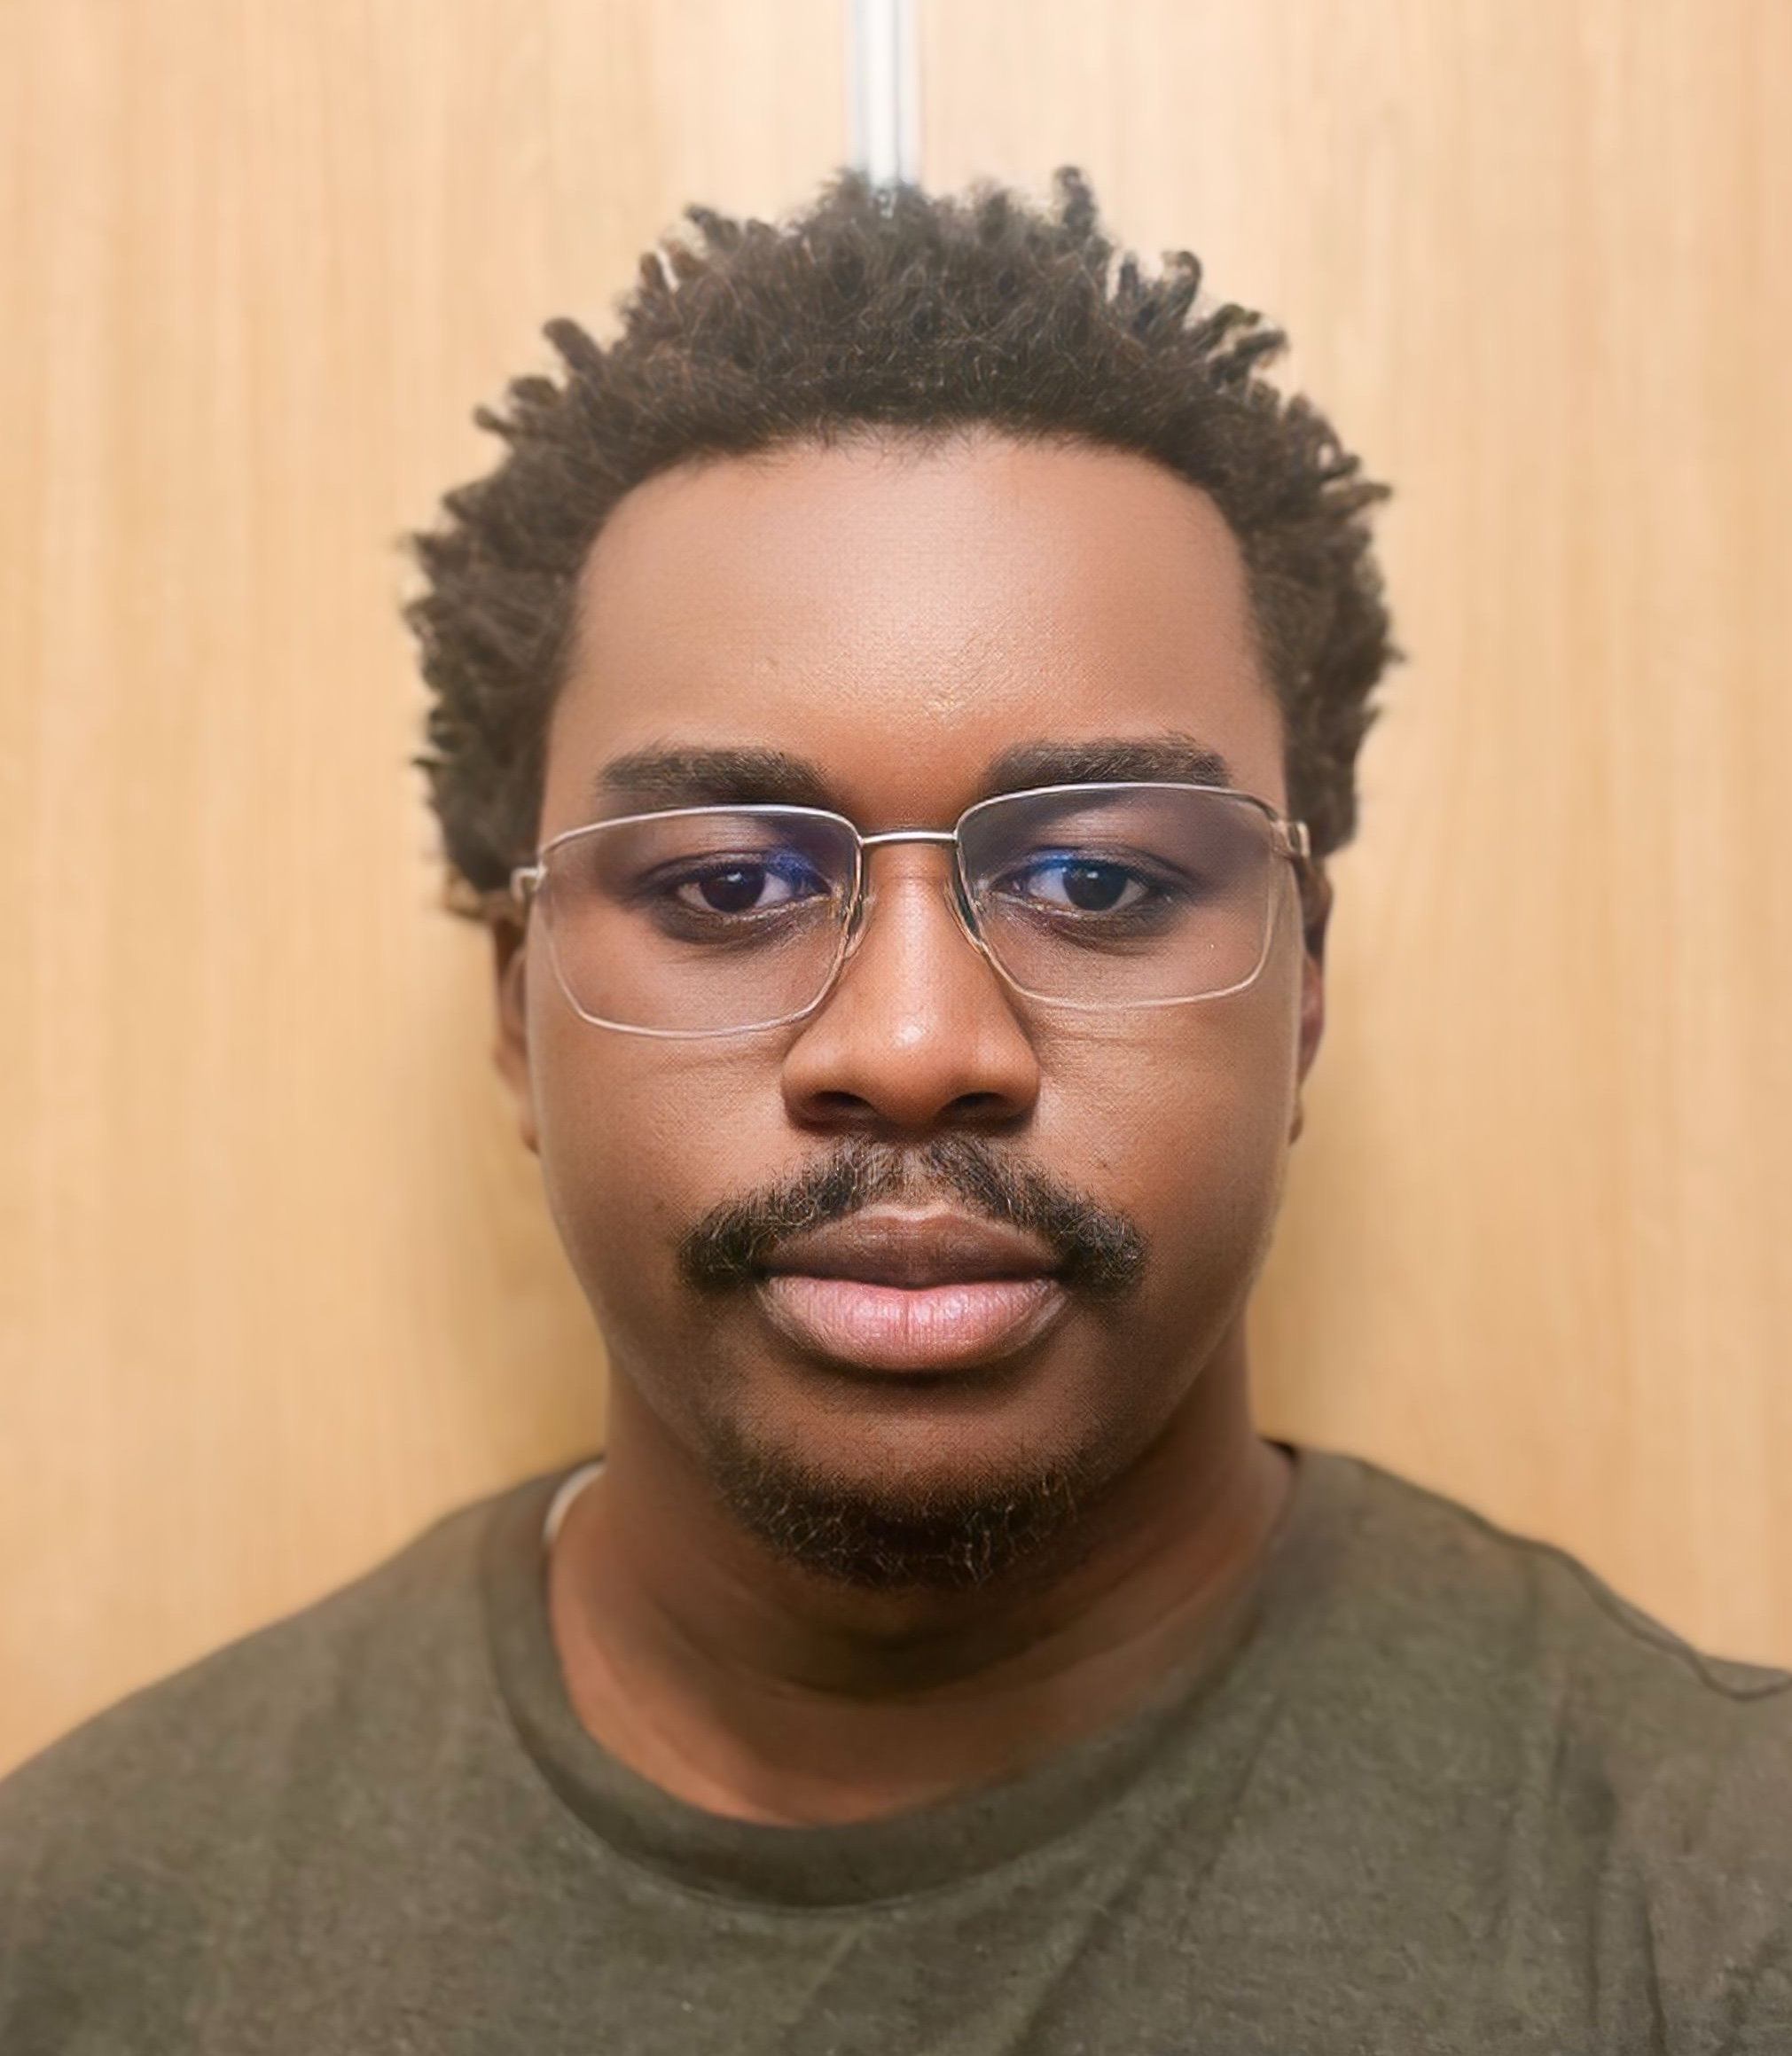
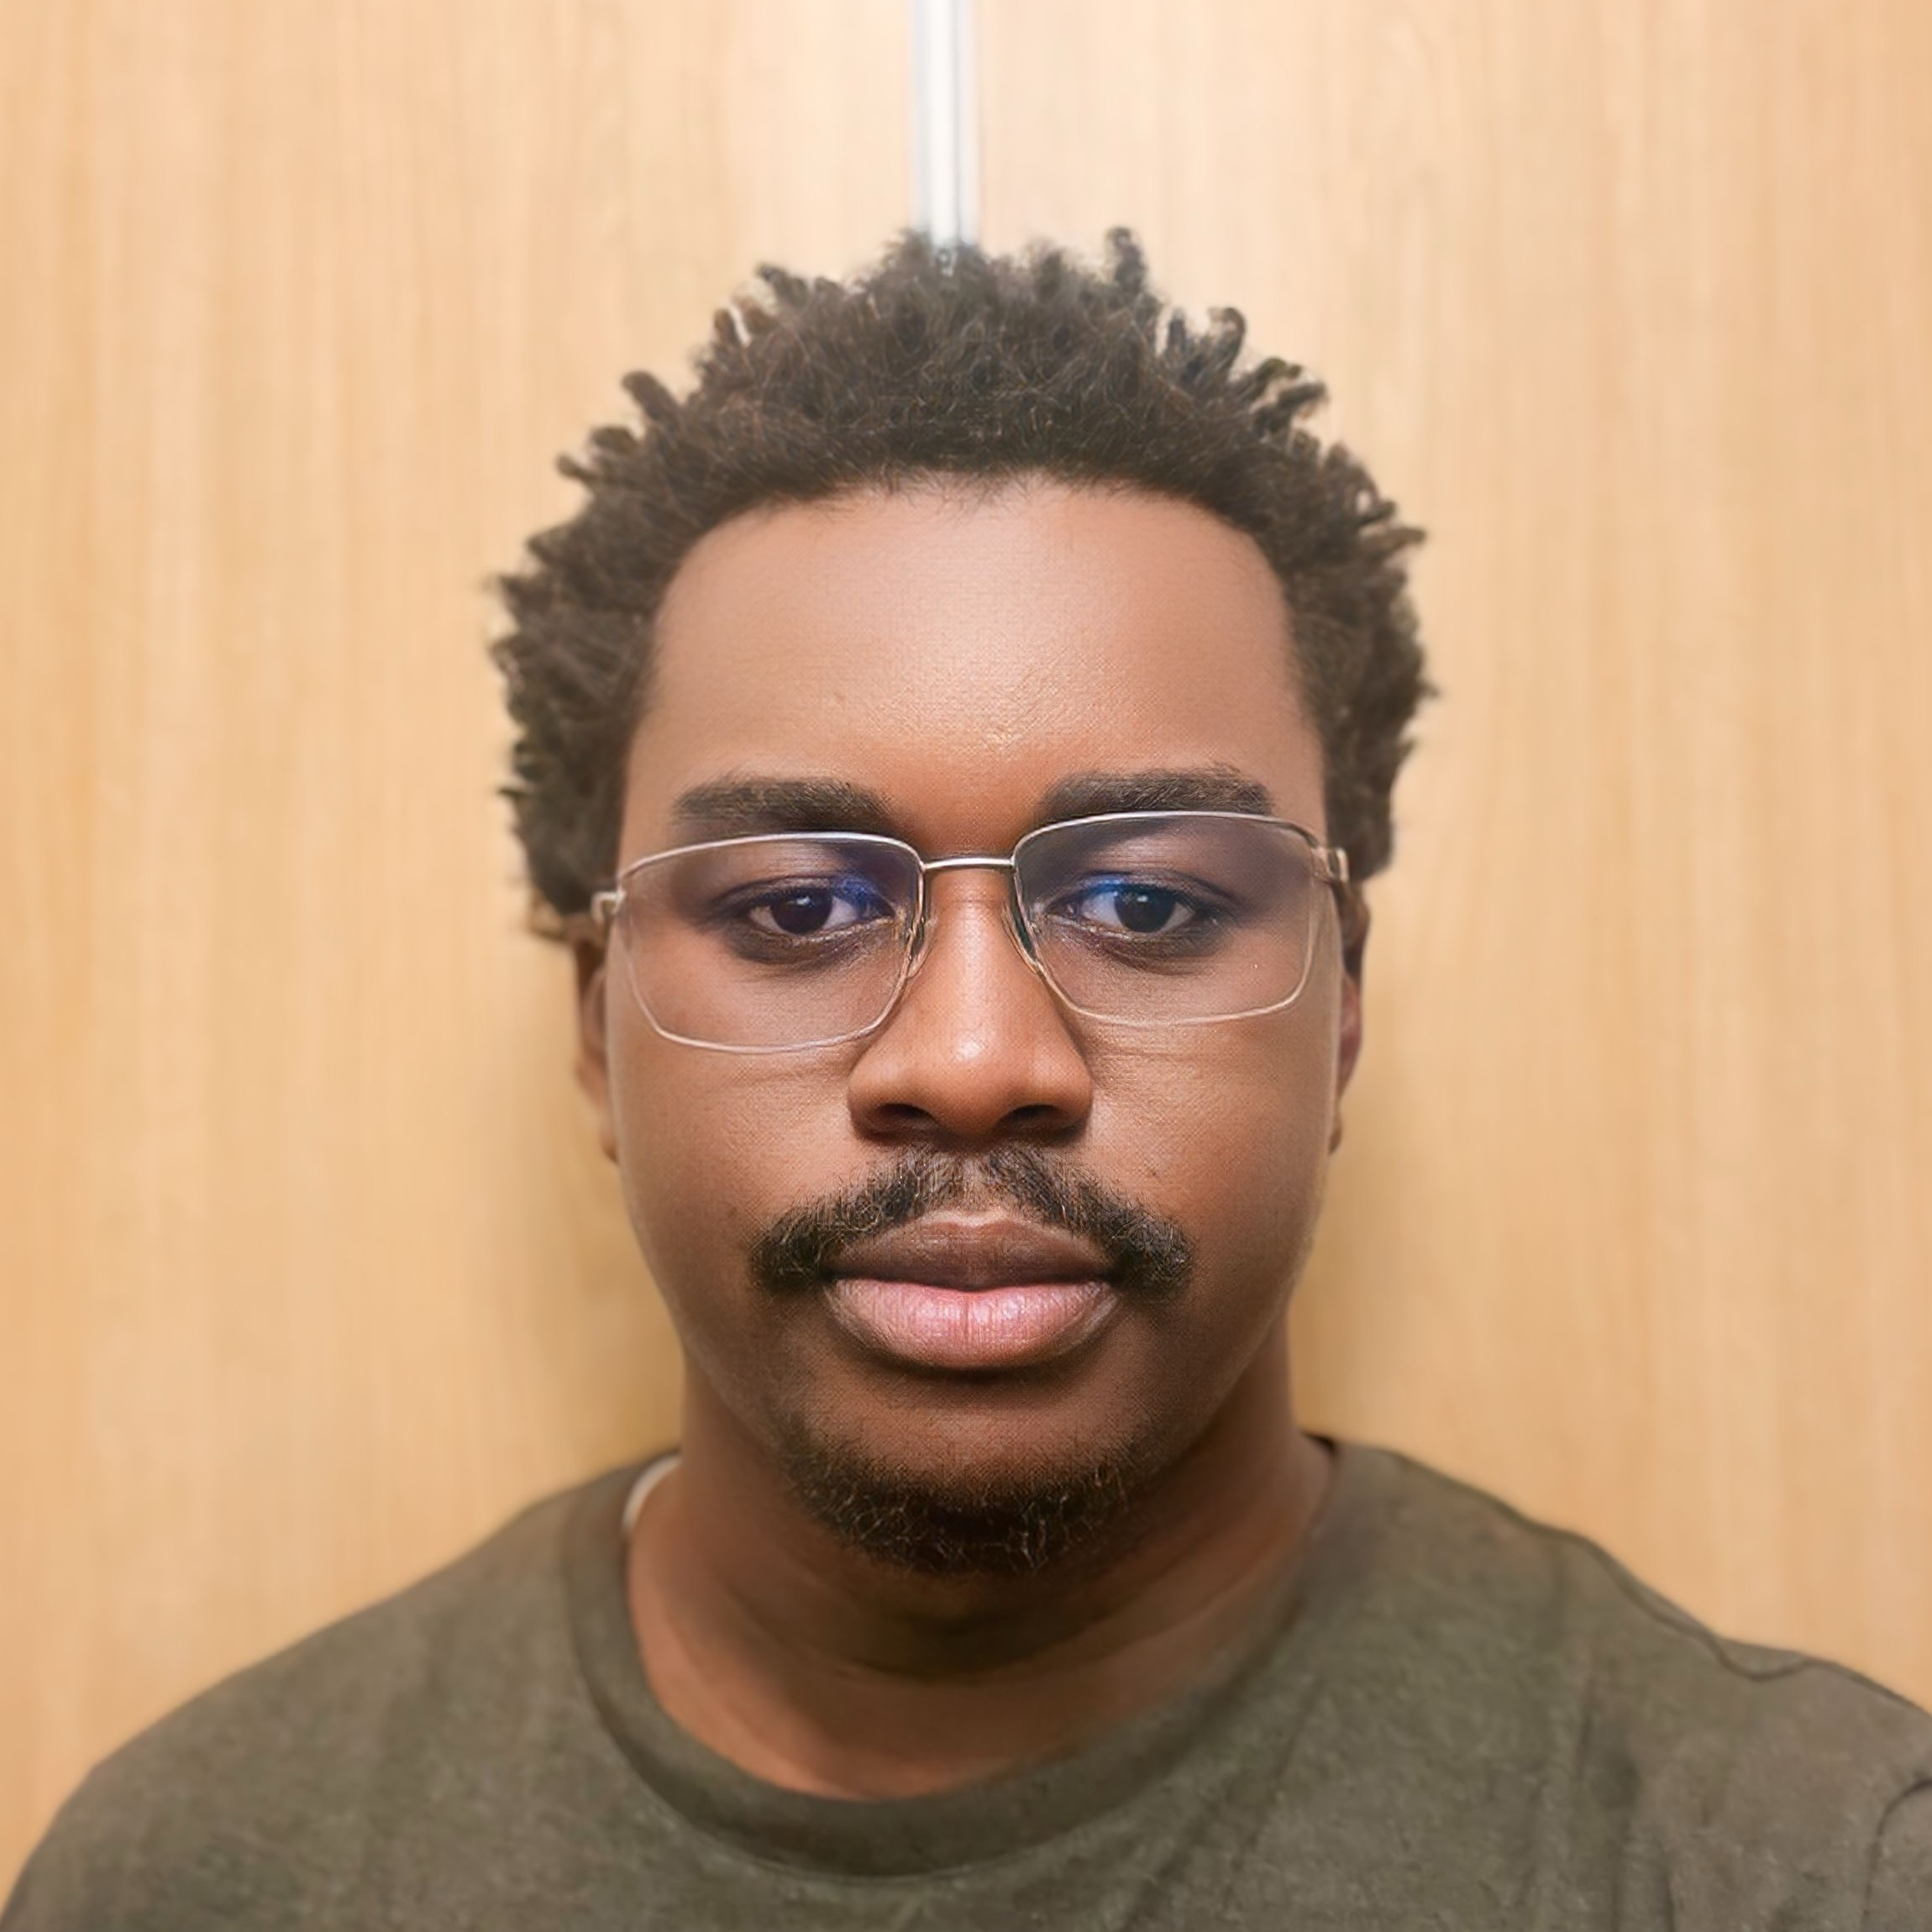
refactor: replace background-image profile photo with standard img element for improved accessibility and styling

diff --git a/src/components/Resume.jsx b/src/components/Resume.jsx
@@ -16,14 +16,9 @@ const Resume = ({ data }) => {
         <div className="resume-container">
             <aside className="sidebar">
                 <div className="profile-section">
-                    <div
-                        className="profile-img"
-                        style={{
-                            backgroundImage: `url(${photo})`,
-                            backgroundSize: 'cover',
-                            backgroundPosition: 'center',
-                        }}
-                    />
+                    <div className="profile-img">
+                        <img src={photo} alt={personalInfo.name} />
+                    </div>
                     <h1>{personalInfo.name}</h1>
                     <div className="contact-info">
                         <p><Icon name="Mail" /> <a href={`mailto:${personalInfo.email}`}>{personalInfo.email}</a></p>

diff --git a/src/App.css b/src/App.css
@@ -528,7 +528,13 @@ input[type="range"] {
   justify-content: center;
 }
 
-/* profile photo rendered via background-image — no img tag needed */
+.profile-img img {
+  max-width: 100%;
+  max-height: 100%;
+  width: auto;
+  height: auto;
+  display: block;
+}
 
 /* Dynamic Scaling using var(--font-scale) */
 h1 {